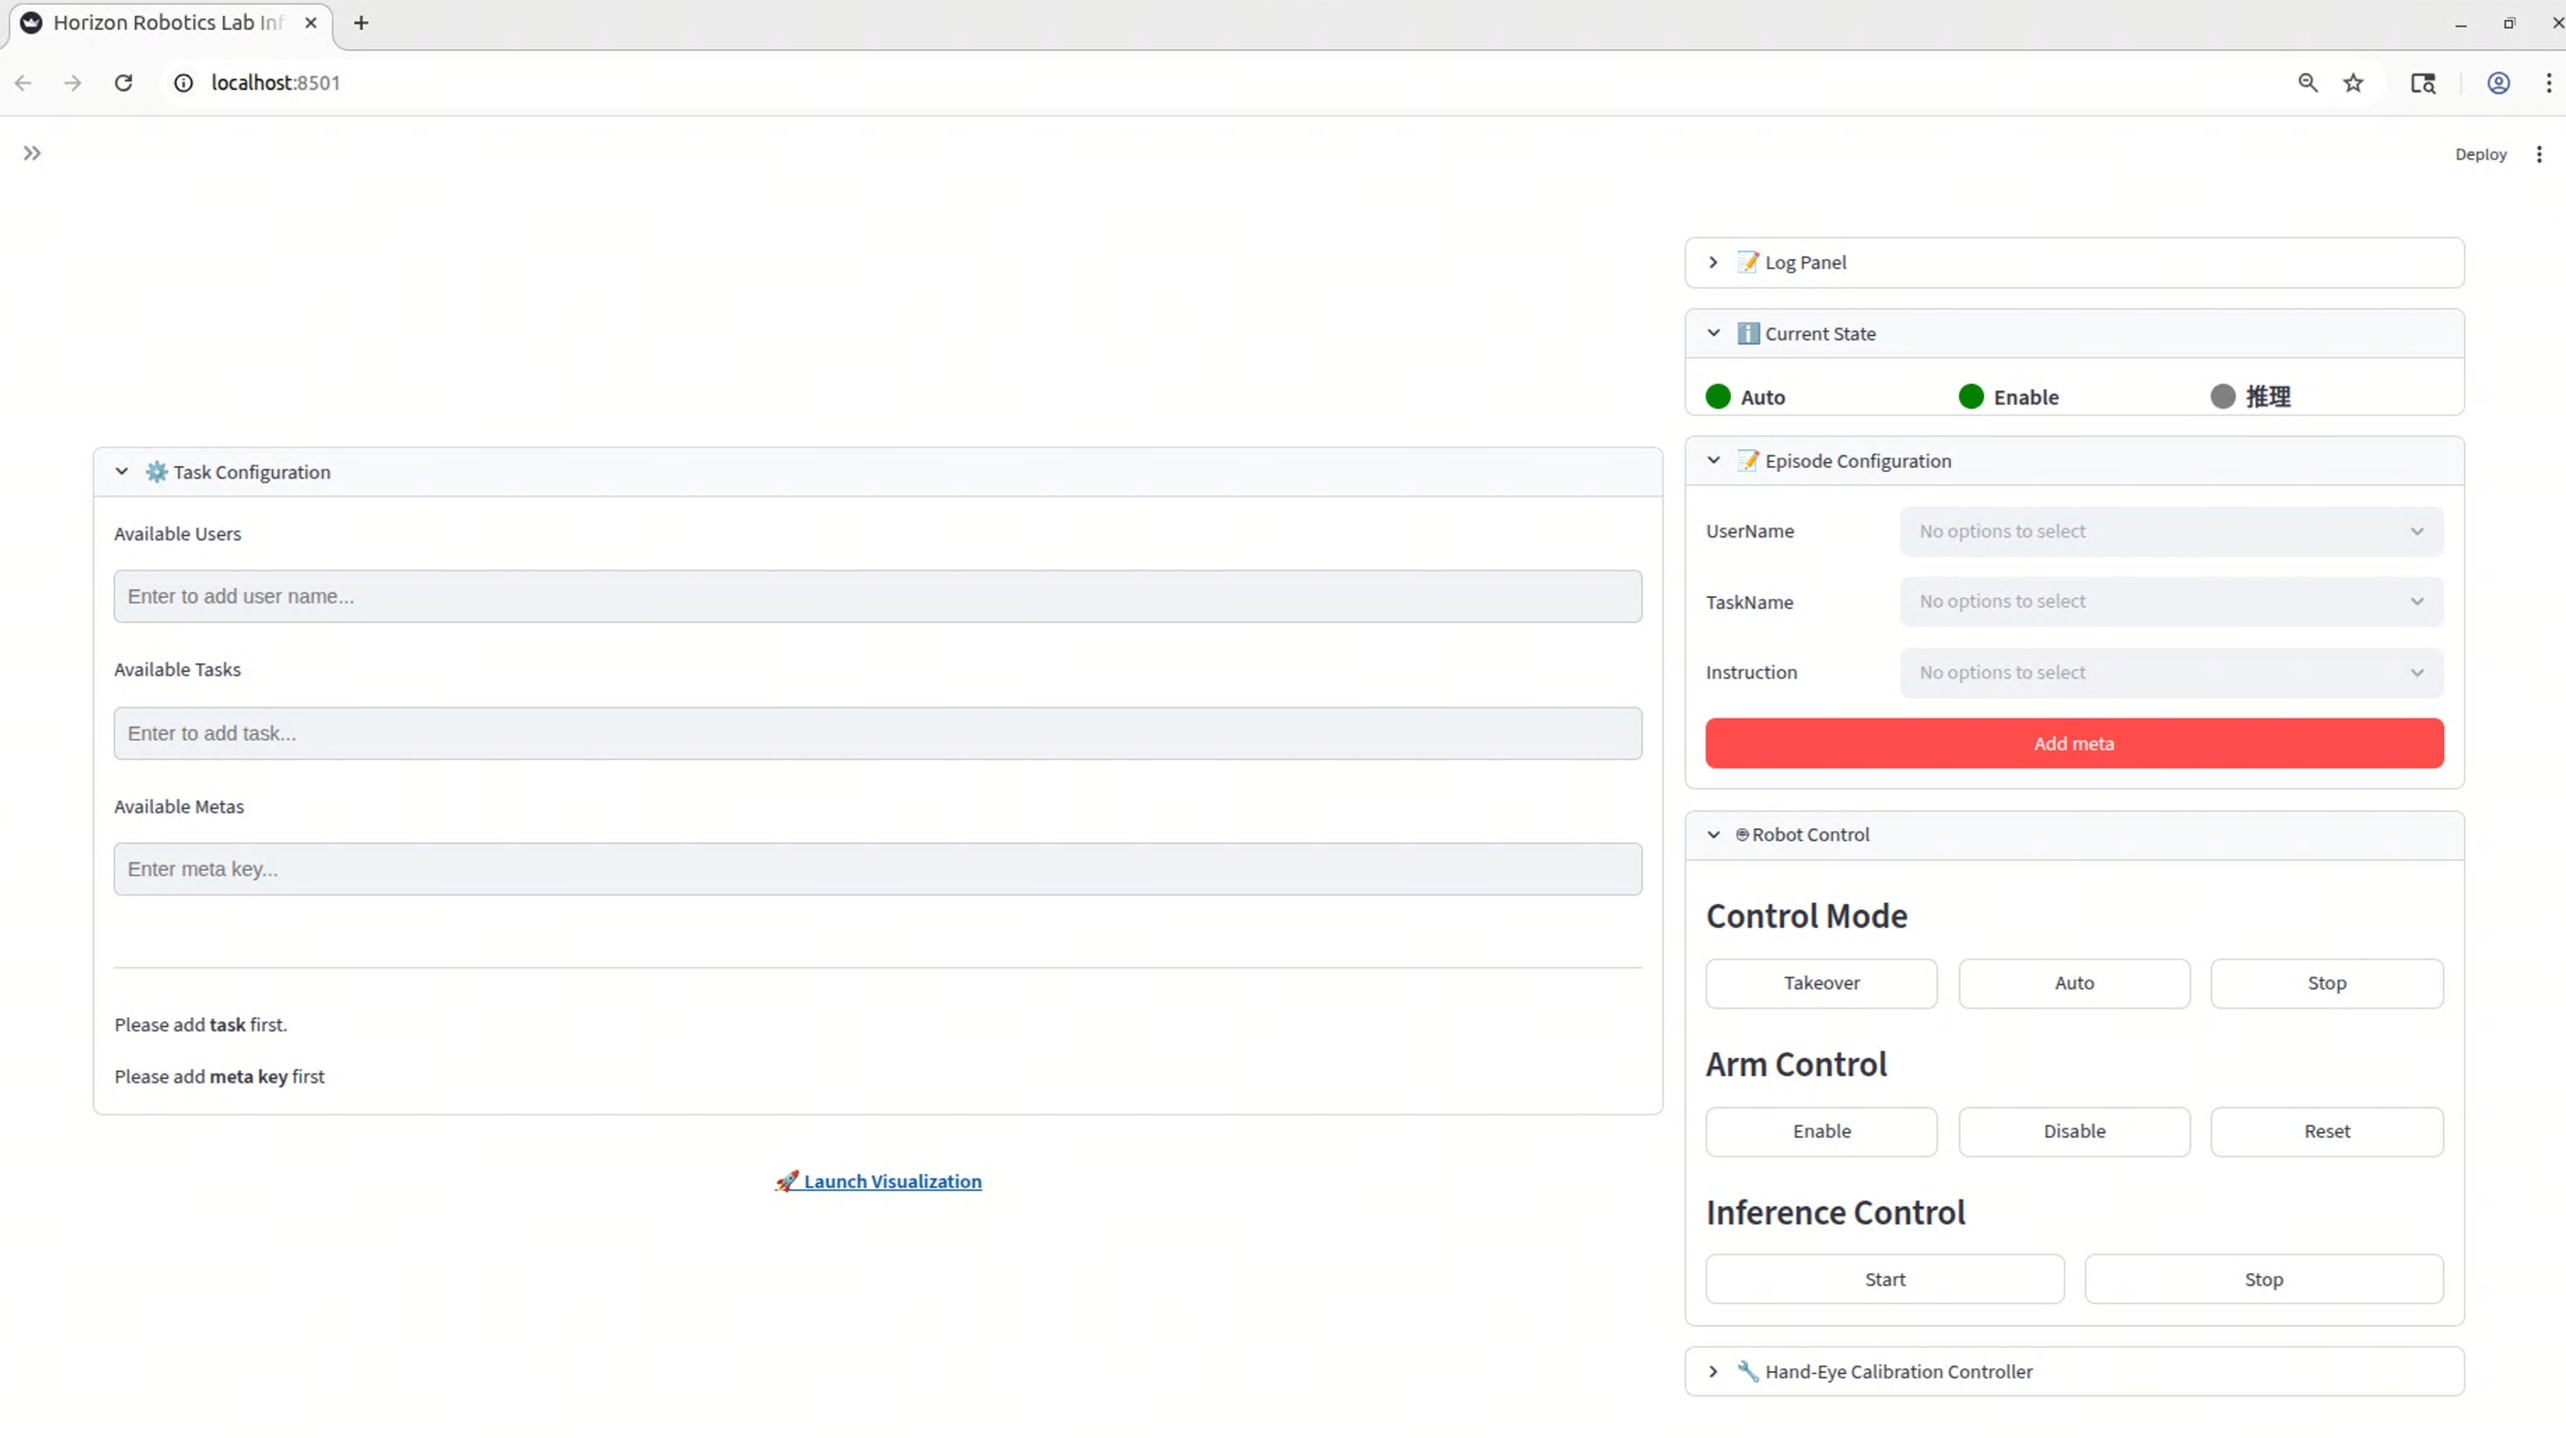
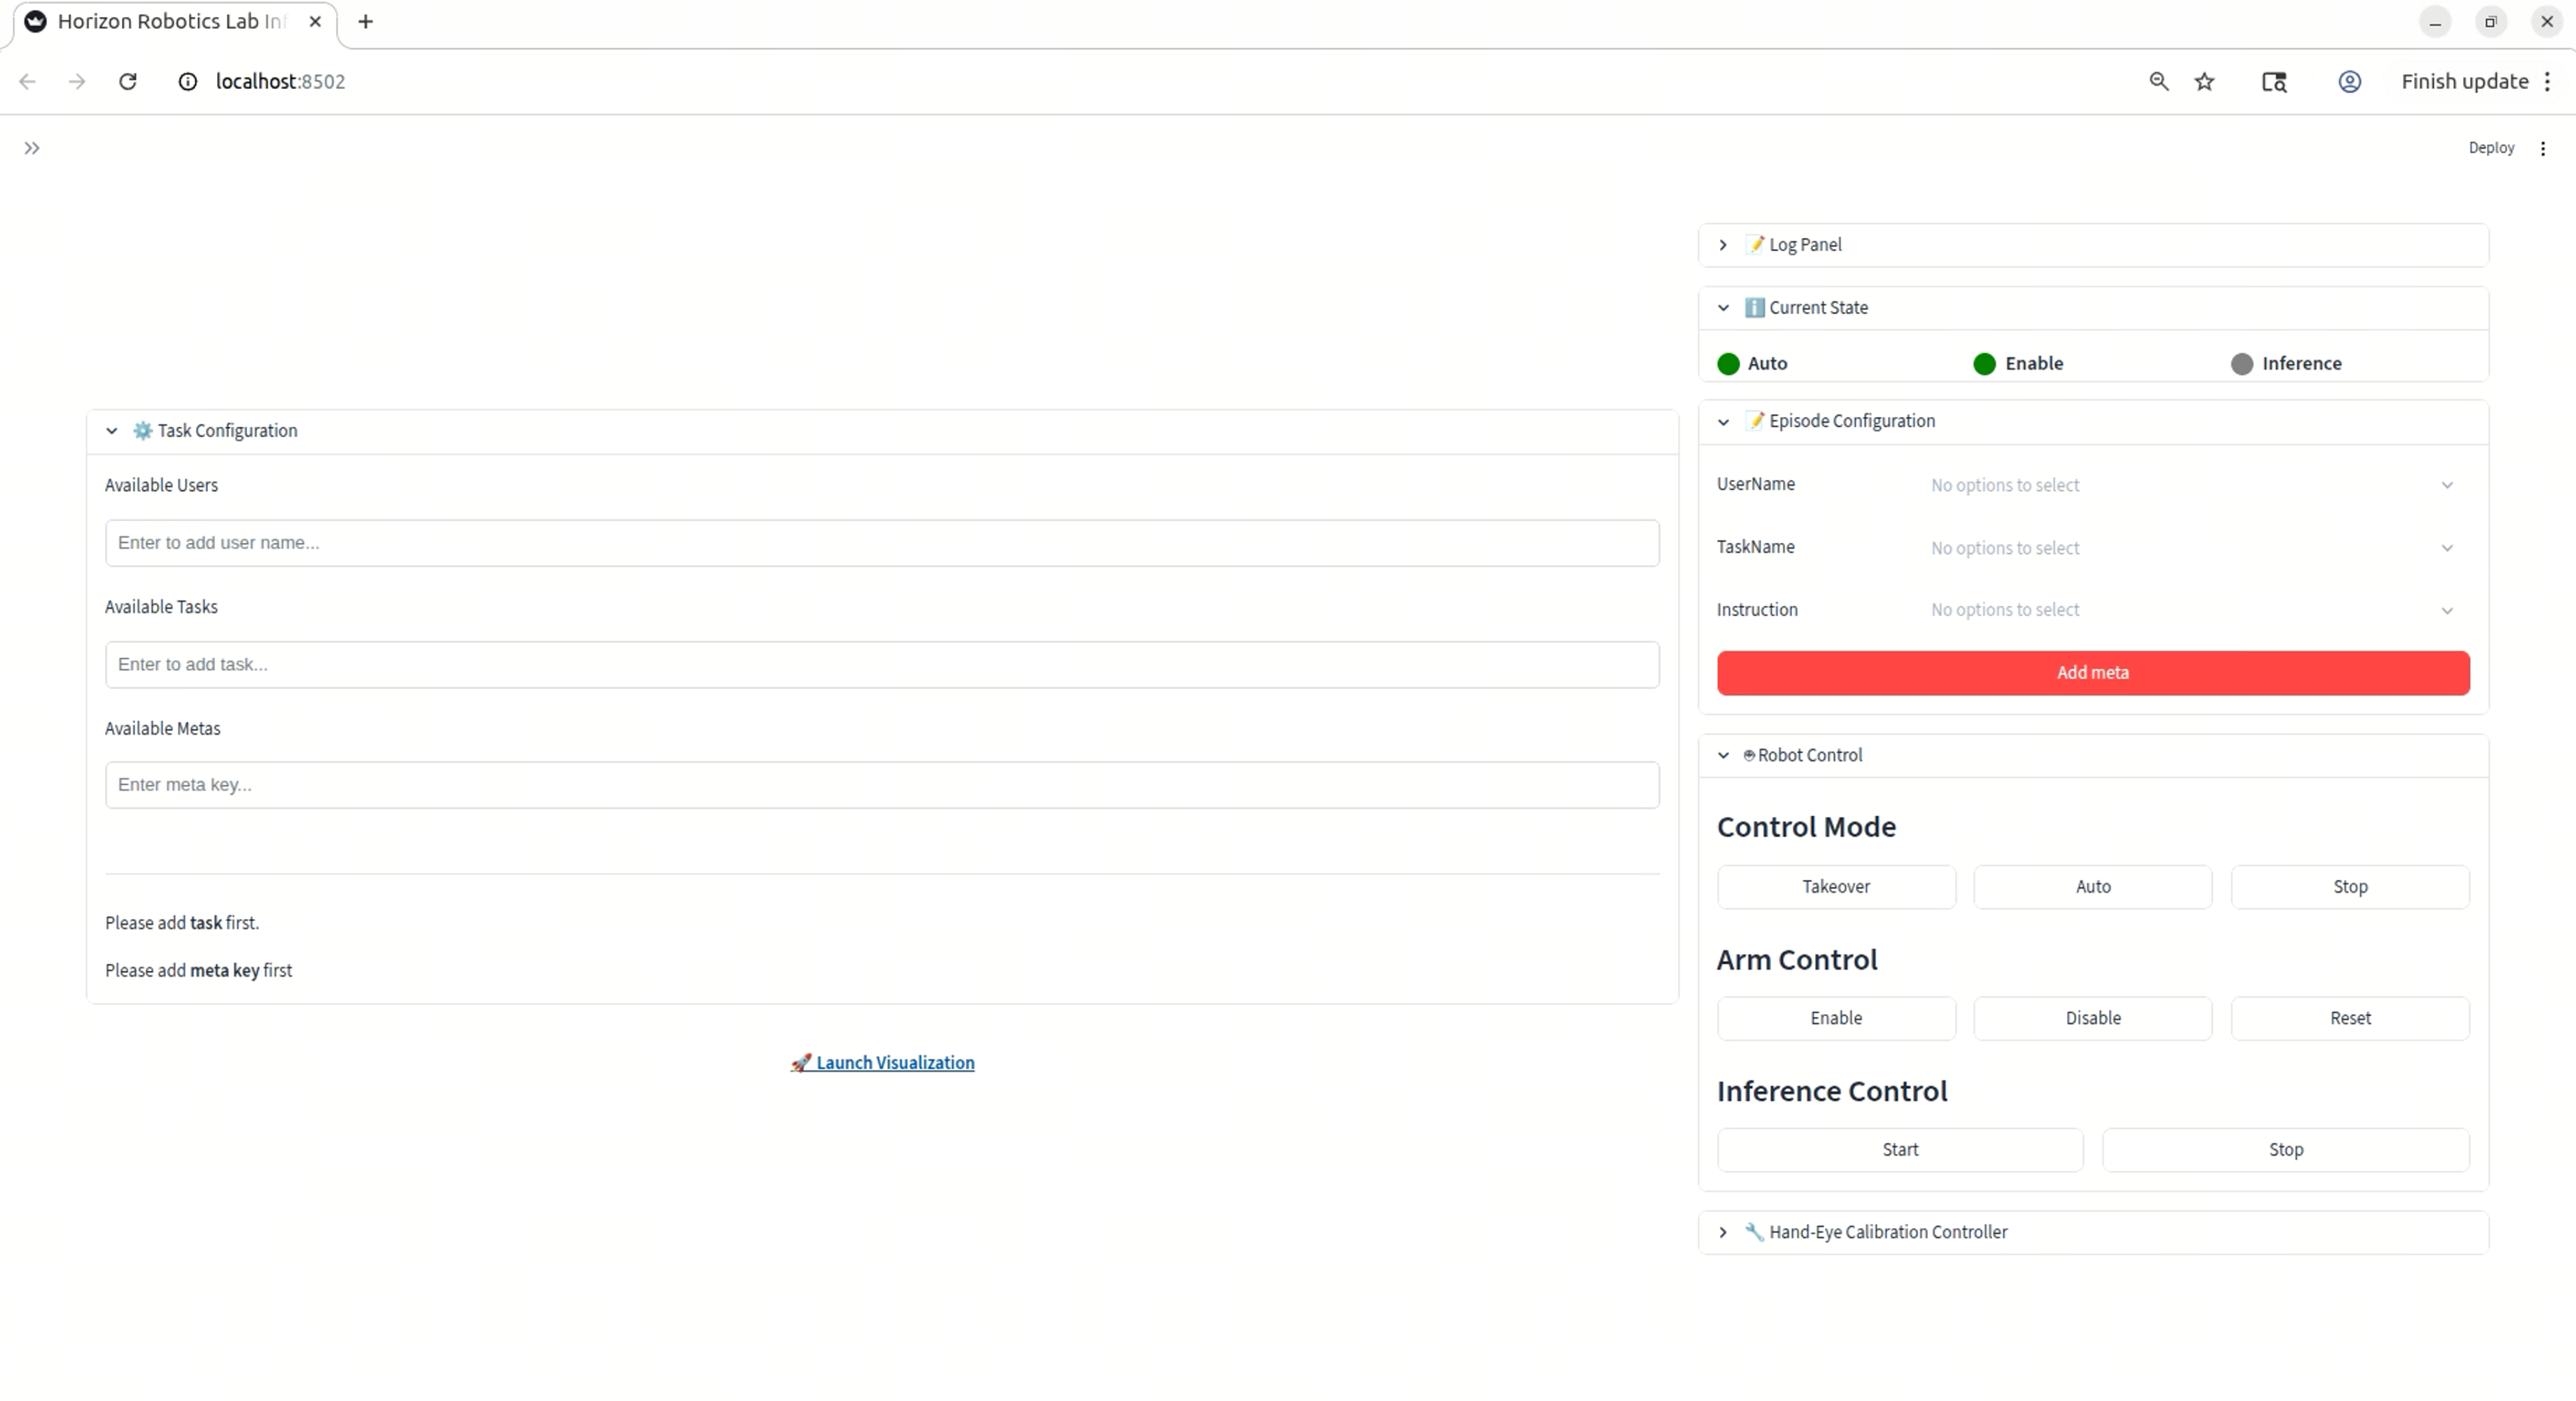
bugfix(app): Change chinese font to english.

diff --git a/python/robo_orchard_inference_app/robo_orchard_inference_app/components/main_control.py b/python/robo_orchard_inference_app/robo_orchard_inference_app/components/main_control.py
@@ -90,8 +90,8 @@ class MainControlComponent(ComponentBase):
                 multi_status_indicator(
                     current_status=state.is_inference_service_running,
                     status_config={
-                        True: StatusConfig(text="推理", color="green"),
-                        False: StatusConfig(text="推理", color="grey"),
+                        True: StatusConfig(text="Inference", color="green"),
+                        False: StatusConfig(text="Inference", color="grey"),
                     },
                 )
 
